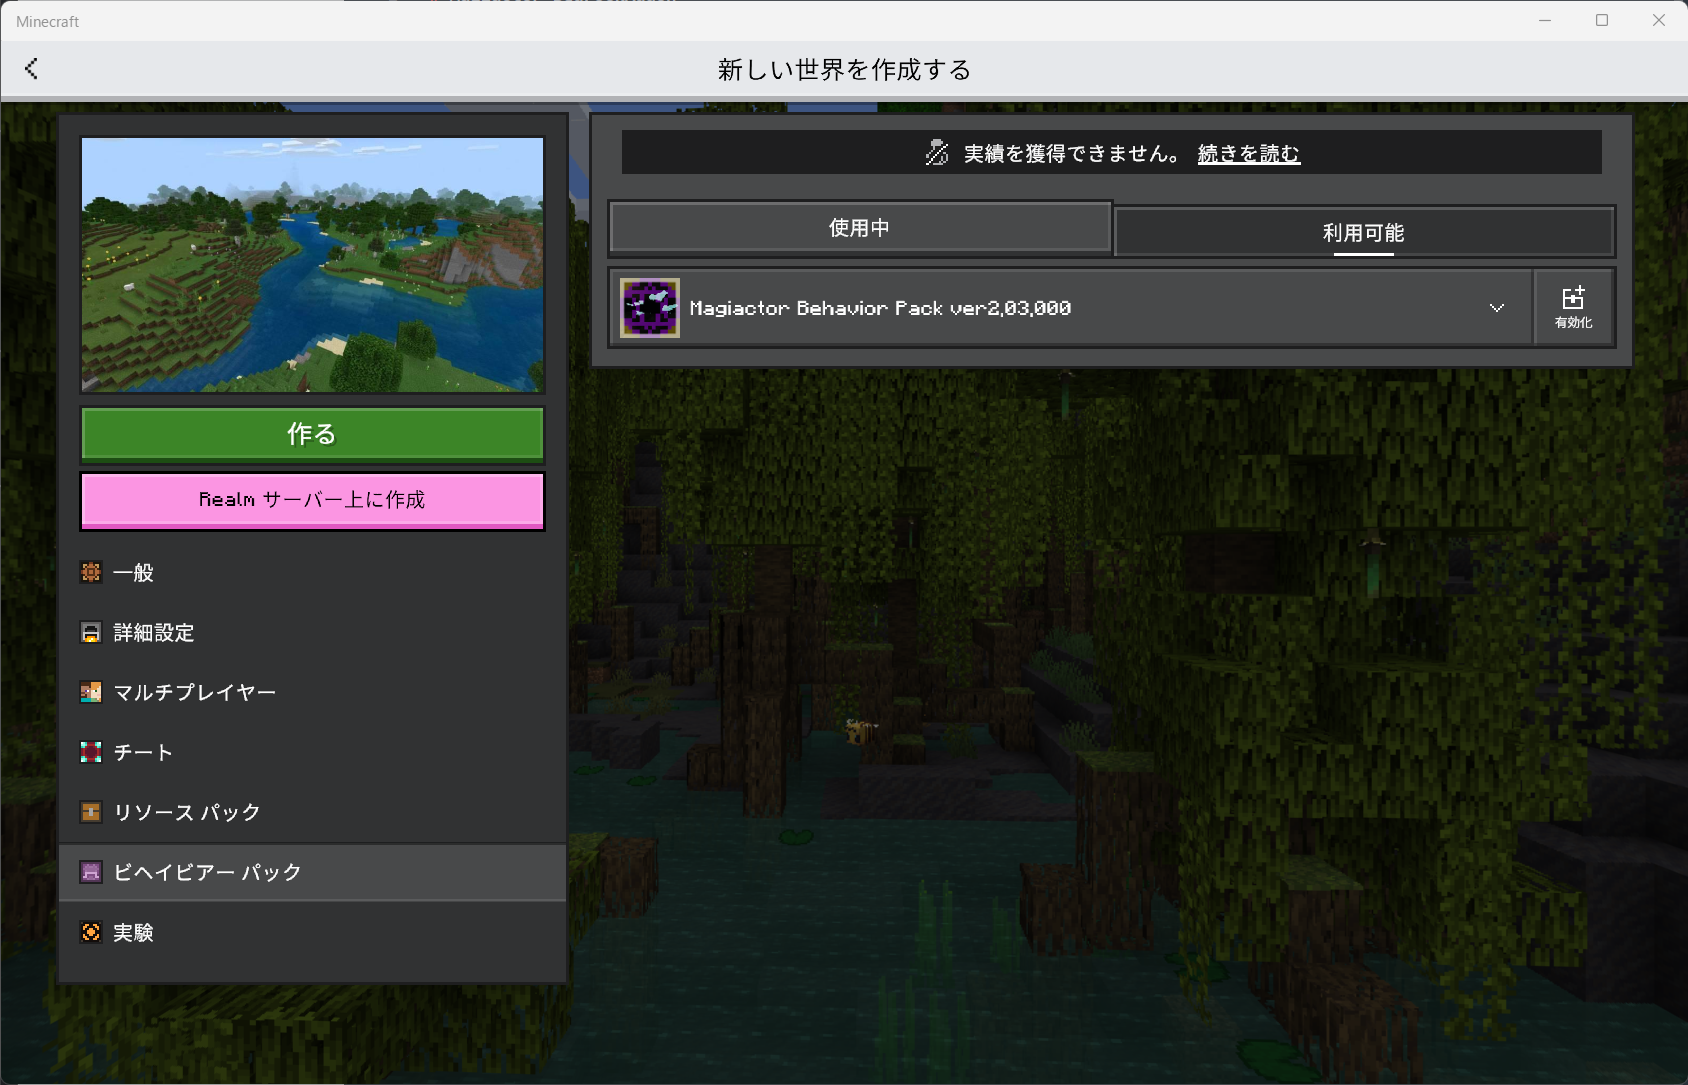
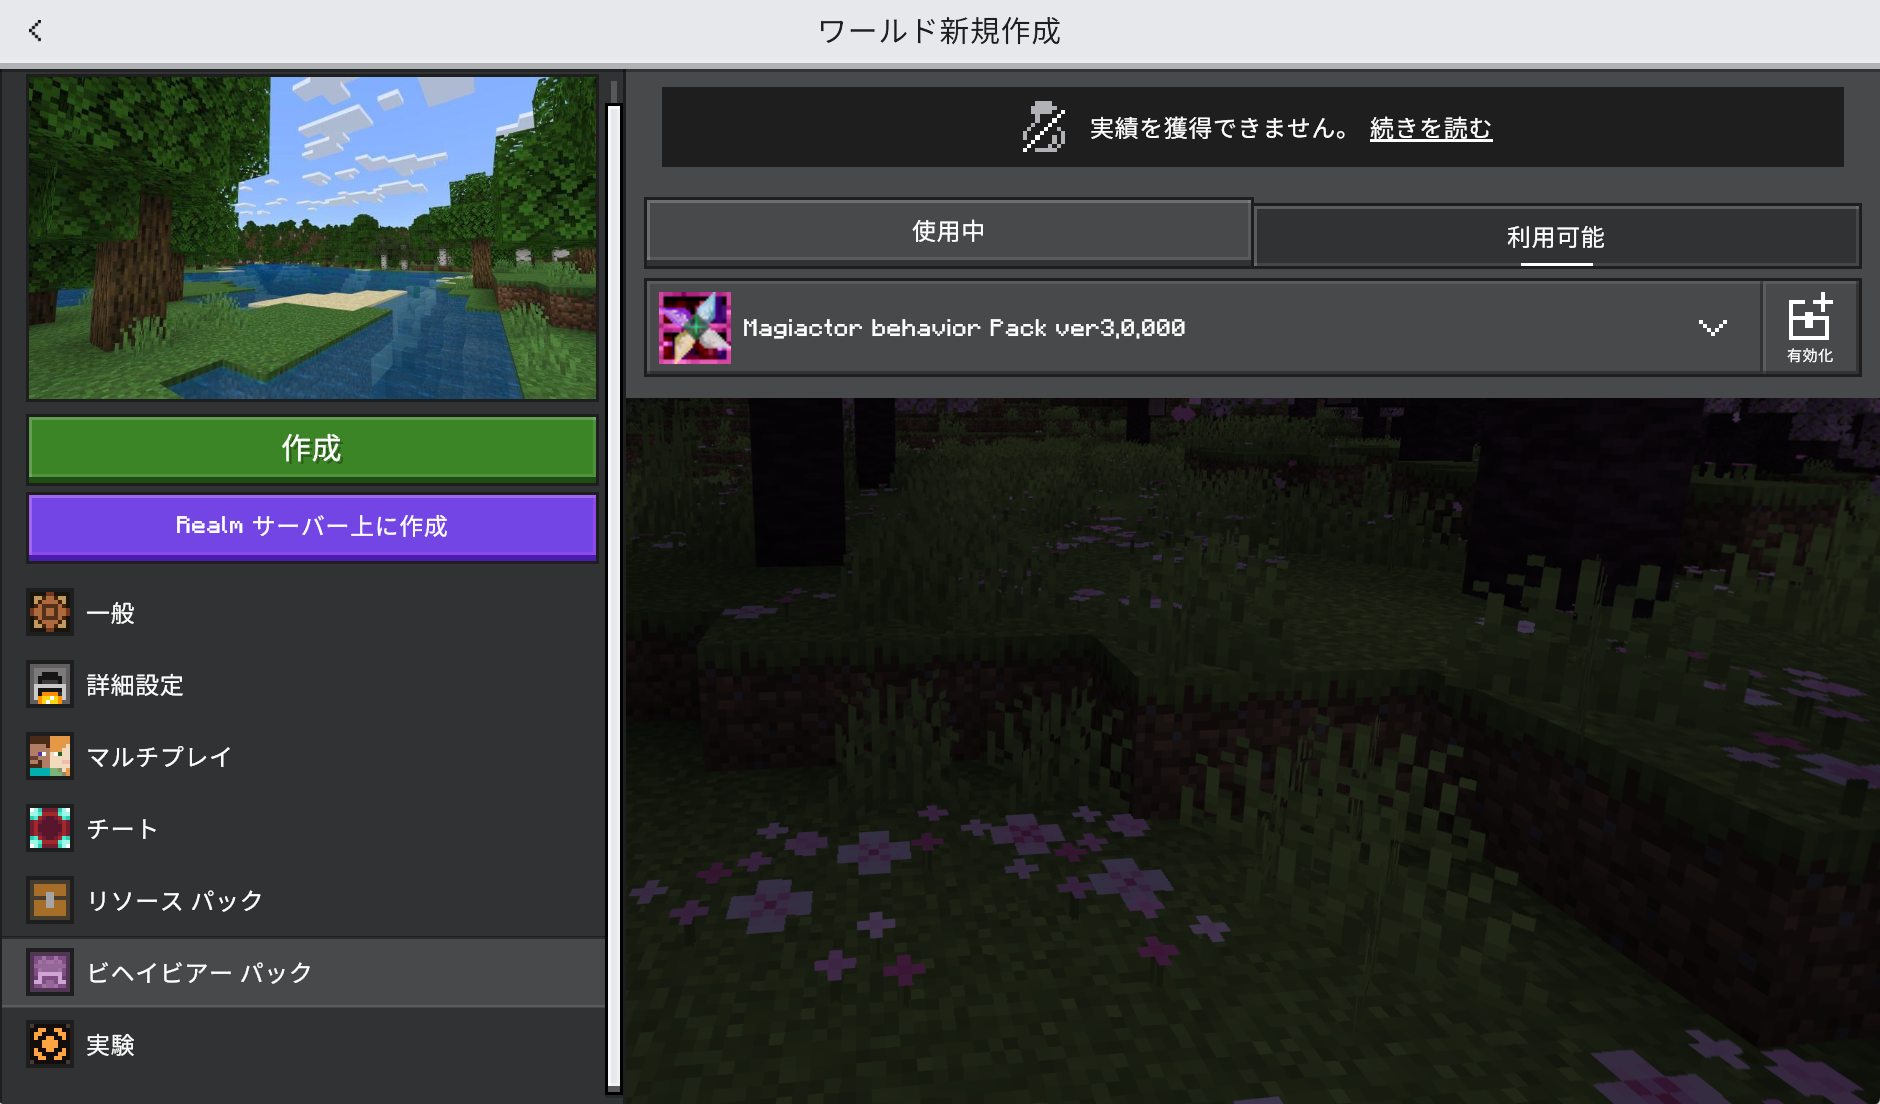
3.0.000リリース

diff --git a/README.md b/README.md
@@ -15,11 +15,11 @@ Addon for Minecraft Bedrock Edition
 - [更新履歴](#更新履歴)
 
 ## お知らせ
-2022/2/20
+2023/7/26
 
-ver2.03.000をリリースしました。
+ver3.0.000をリリースしました。
 以前のバージョンとはワールド生成が異なります。新しくワールドを作り直してください。
-Minecraft v1.19.62現在、過去バージョンのビヘイビアパックが残っていると最新版を適用できない不具合があります。
+Minecraft v1.20.12現在、過去バージョンのビヘイビアパックが残っていると最新版を適用できない不具合があります。
 過去バージョンのアドオンが残っている場合は、設定→ストレージ→ビヘイビアパックから削除してください。
 
 ## はじめに
@@ -35,11 +35,11 @@ Java Edition等、MCBE以外のMinecraftでは動作しません。
 - 日本語
 
 ## 動作環境
-v1.19.50以降のMCBEがインストールされた端末。
+v1.20.12以降のMCBEがインストールされた端末。
 Windows10、Windows11、iOS、Android以外はマルチプレイでのゲストのみ可能。
 
 ## ダウンロード
-### [**最新バージョンをダウンロード**](https://github.com/M083/Magiactor-BedrockAddon/releases/download/ver2.03.000/Magiactor_2_03_000.mcaddon)
+### [**最新バージョンをダウンロード**](https://github.com/M083/Magiactor-BedrockAddon/releases/download/ver3.0.000/Magiactor_3_0_000.mcaddon)
 
 ### [過去のバージョンをダウンロード](https://github.com/M083/Magiactor-BedrockAddon/releases)
 
@@ -99,6 +99,9 @@ Twitter ([@M0_83](https://twitter.com/M0_83))
 	- 手懐けたグリフォニスの名前が「不明」と表示される。
 
 ## 更新履歴
+	ver3.0.000
+	・一気に変更しすぎて何が変わったか忘れました
+
 	ver2.03.000
 	不具合修正
 	・マイクラ新バージョンの仕様変更の影響で発生するエラーを修正
